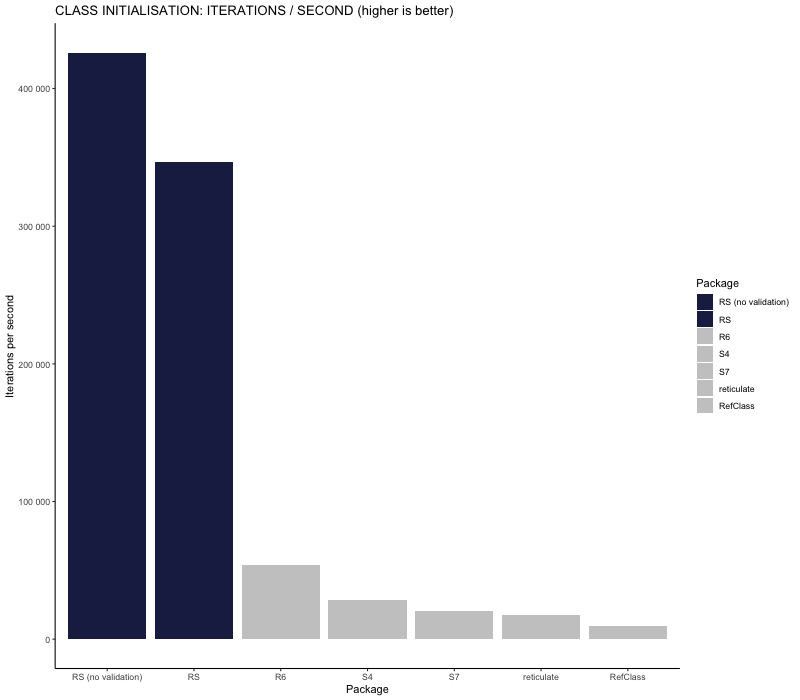
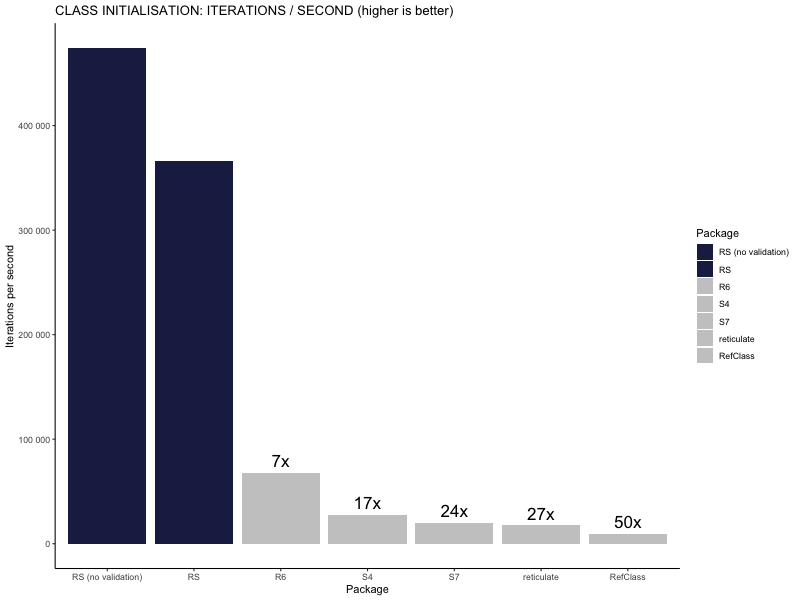
docs: README.Rmd, new benchmark plot

diff --git a/README.md b/README.md
@@ -1,28 +1,35 @@
+
+<!-- README.md is generated from README.Rmd. Please edit that file -->
+
 # `RS` - Fast classes for R 🔥
 
-> Contributions are welcome! If you have a feature request, or find a bug, feel free to open an issue or PR ✅
+> Contributions are welcome! If you have a feature request, or find a
+> bug, feel free to open an issue or PR ✅
+
+<!-- badges: start -->
 
 ![](https://img.shields.io/github/r-package/v/avhz/RS)
+<!-- badges: end -->
 
-`RS` is an R package that implements classes for R. 
+`RS` is an R package that implements classes for R.
 
-It is centered around *type validation* of attributes, 
-so you can be confident your classes contain the right data.
+It is centered around *type validation* of attributes, so you can be
+confident your classes contain the right data.
 
-Despite the cost of providing type validation, 
-it is about *700-800% faster* than the next fastest OOP package.
+Despite the cost of providing type validation, it is about *700-800%
+faster* than the next fastest OOP package.
 
 The name `RS` is a combination of:
 
-- The R and S languages (S is R's predecessor).
-- `.rs` - the file extension used for Rust files, and the TLD of Rust websites.
-
+- The R and S languages (S is R’s predecessor).
+- `.rs` - the file extension used for Rust files, and the TLD of Rust
+  websites.
 
 ## Install
 
 Any of the following should work:
 
-```R
+``` r
 pak::pak("avhz/RS")
 ## or
 renv::install("avhz/RS")
@@ -30,9 +37,14 @@ renv::install("avhz/RS")
 devtools::install_github("avhz/RS")
 ```
 
+This installs the latest development version of `RS` from GitHub. `RS`
+is not yet on CRAN, but hopefully will be soon.
+
 ## Usage
 
-```R
+``` r
+library(RS)
+
 Class(
     "Dog",
  
@@ -51,42 +63,48 @@ fluffy <- Dog(name = "Fluffy", age = 3L, breed = "Golden Retriever")
 Note that the fields are special objects like `t_int`, `t_char`, etc.
 These objects allow for attribute type validation.
 
-If you pass an incorrect type for one of the fields, you will get an error like:
+If you pass an incorrect type for one of the fields, you will get an
+error like:
 
-```R
+``` r
 fluffy <- Dog(name = 1, age = 3L, breed = "Golden Retriever")
 "Invalid type <'double'> passed for field <'name'>."
 ```
 
-```R
-> fluffy@name
-[1] "Fluffy"
-> fluffy@age
-[1] 3
-> fluffy@breed
-[1] "Golden Retriever"
-> fluffy@bark()
-Fluffy goes woof!
+``` r
+fluffy@name
+#> [1] "Fluffy"
+fluffy@age
+#> [1] 3
+fluffy@breed
+#> [1] "Golden Retriever"
+fluffy@bark()
+#> Fluffy goes woof!
 ```
 
-I used the slot operator `@` for accessing attributes in `RS`, because the common `$` operator
-is so pervasive in R code that I wanted an operator that made
-it more obvious that the object is an `RS` class,
+I used the slot operator `@` for accessing attributes in `RS`, because
+the common `$` operator is so pervasive in R code that I wanted an
+operator that made it more obvious that the object is an `RS` class,
 rather than a list, dataframe, environment, R6 class, etc.
 
-> Note:
-> Inheritance is not currently supported and most likely won't be unless there is overwhelming demand for it.
-> Instead, composition is supported and preferred.
+> Note: Inheritance is not currently supported and most likely won’t be
+> unless there is overwhelming demand for it. Instead, composition is
+> supported and preferred.
 
 ## Benchmarks
 
-The following shows the iterations per second for class instances for a number of R OOP libraries.
+The following shows the iterations per second for class instances for a
+number of R OOP libraries.
 
-You can see that `RS` offers at least a 7-8x performance gain over the other offerings. 
+You can see that `RS` offers at least a 7-8x performance gain over the
+other offerings.
 
 [<img src="man/figures/bench.png">](https://github.com/avhz/RS/blob/main/man/figures/bench.png)
 
-> Note #1: the other libraries may provide more features and are currently more mature/complete offerings, in particular `R6`.
+> Note \#1: the other libraries may provide more features and are
+> currently more mature/complete offerings, in particular `R6`.
 
-> Note #2: creating Python class instances via `reticulate` inside the R interpreter is *significantly* slower than doing it directly in Python.
-> Python classes are still much, much faster than my `RS` package (~30-40x faster when I last checked).
+> Note \#2: creating Python class instances via `reticulate` inside the
+> R interpreter is *significantly* slower than doing it directly in
+> Python. Python classes are still much, much faster than my `RS`
+> package (~30-40x faster when I last checked).
